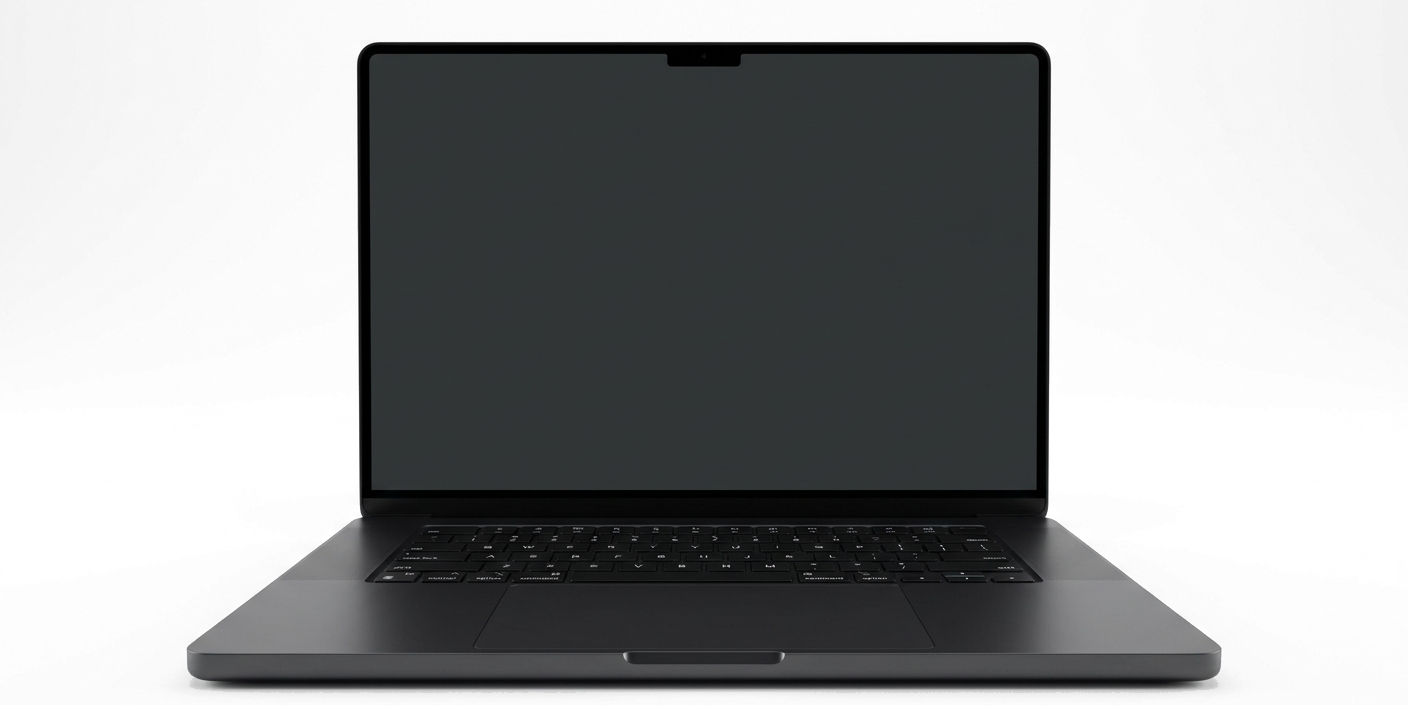
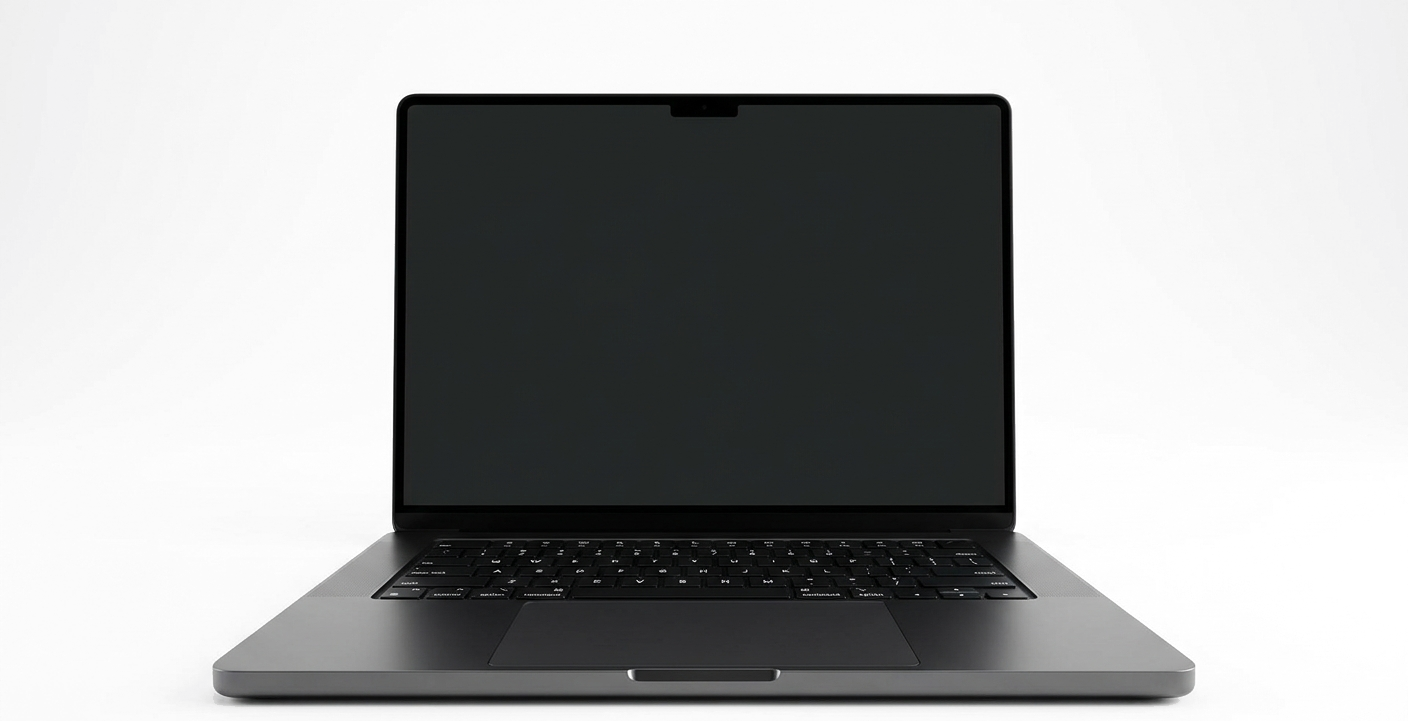
feat(work): flat re-rendered devices + every load starts at page top
- MacBook and iPhone re-rendered at higher fidelity (cleaner
  silhouettes, sharper lighting) and presented FLAT: perspective
  wrappers, tilt poses, hover transforms and extruded bodies all
  removed; sims remapped to the new screen rects
- SmoothScroll forces history.scrollRestoration = manual and scrolls
  to (0,0) on mount, so every site load starts at the first frame of
  the hero choreography instead of a restored mid-pin position

Changed region(s): [[0.125, 0.0624, 0.875, 0.9986], [0.3438, 0.7489, 0.4688, 0.7801], [0.5625, 0.8113, 0.625, 0.8426]]

diff --git a/src/components/marketing/work-section.tsx b/src/components/marketing/work-section.tsx
@@ -99,49 +99,27 @@ export function WorkSection() {
                 <figure className="group">
                   {/* Perspective stage: the laptop rests at a slight 3D tilt and
                       straightens + lifts on hover (motion-safe only). */}
-                  <div className="[perspective:1100px]">
-                    <div className="relative will-change-transform transition-transform duration-500 ease-out [transform-style:preserve-3d] [transform:rotateY(-4deg)_rotateX(2deg)] motion-safe:group-hover:[transform:rotateY(-16deg)_rotateX(6deg)_translateY(-0.4rem)_scale(1.04)] motion-reduce:transition-none">
-                      {/* Extruded lid body (hero-monitor pattern): a thin back
-                          face + right side wall behind the lid region, so the
-                          hover rotation reveals real thickness. */}
-                      <div
-                        aria-hidden
-                        className="pointer-events-none absolute rounded-md bg-[#0b0b0c]"
-                        style={{ left: "25.2%", right: "25.3%", top: "3.2%", bottom: "34.5%", transform: "translateZ(-14px)" }}
-                      />
-                      <div
-                        aria-hidden
-                        className="pointer-events-none absolute w-[14px]"
-                        style={{
-                          right: "25.3%",
-                          top: "3.2%",
-                          bottom: "34.5%",
-                          transform: "rotateY(-90deg)",
-                          transformOrigin: "right center",
-                          background: "linear-gradient(to left, #2e2e31, #101012)",
-                        }}
-                      />
-                      {/* MacBook Pro style render (alpha-keyed); the live sim is
-                          mapped onto its measured screen rectangle. */}
-                      {/* eslint-disable-next-line @next/next/no-img-element */}
-                      <img
-                        src="/macbook.png"
-                        alt=""
-                        aria-hidden
-                        draggable={false}
-                        className="block w-full select-none drop-shadow-[0_36px_70px_rgba(0,0,0,0.6)]"
-                      />
-                      {/* Gold LIVE tag over the screen's top-left corner. */}
-                      <span className="chrome-meta absolute left-[28.5%] top-[9%] z-10 rounded-chrome bg-gold px-2 py-1 text-[0.625rem] text-gold-ink">
-                        LIVE
-                      </span>
-                      <div
-                        className="absolute overflow-hidden bg-obsidian"
-                        style={{ left: "26.4%", top: "6.2%", right: "26.5%", bottom: "33%", containerType: "inline-size" }}
-                      >
-                        <DashboardSim start={2} />
-                        <div aria-hidden className="pointer-events-none absolute inset-0" style={{ background: "linear-gradient(115deg, rgba(255,255,255,0.06) 0%, transparent 30%)" }} />
-                      </div>
+                  <div className="relative">
+                    {/* MacBook Pro style render (alpha-keyed, flat); the live
+                        sim is mapped onto its measured screen rectangle. */}
+                    {/* eslint-disable-next-line @next/next/no-img-element */}
+                    <img
+                      src="/macbook.png"
+                      alt=""
+                      aria-hidden
+                      draggable={false}
+                      className="block w-full select-none drop-shadow-[0_36px_70px_rgba(0,0,0,0.6)]"
+                    />
+                    {/* Gold LIVE tag over the screen's top-left corner. */}
+                    <span className="chrome-meta absolute left-[32%] top-[16%] z-10 rounded-chrome bg-gold px-2 py-1 text-[0.625rem] text-gold-ink">
+                      LIVE
+                    </span>
+                    <div
+                      className="absolute overflow-hidden bg-obsidian"
+                      style={{ left: "29.9%", top: "13.2%", right: "29.2%", bottom: "30.5%", containerType: "inline-size" }}
+                    >
+                      <DashboardSim start={2} />
+                      <div aria-hidden className="pointer-events-none absolute inset-0" style={{ background: "linear-gradient(115deg, rgba(255,255,255,0.06) 0%, transparent 30%)" }} />
                     </div>
                   </div>
                   <LabelChips name="DASHBOARD" tags={["DESKTOP"]} className="mt-4 justify-start" />
@@ -156,59 +134,37 @@ export function WorkSection() {
                 <figure className="group mx-auto w-[min(72vw,260px)]">
                   {/* Perspective stage: the phone rests at a slight 3D tilt and
                       straightens + lifts on hover (motion-safe only). */}
-                  <div className="[perspective:1000px]">
-                    <div className="relative will-change-transform transition-transform duration-500 ease-out [transform-style:preserve-3d] [transform:rotateY(5deg)_rotateX(1deg)] motion-safe:group-hover:[transform:rotateY(18deg)_rotateX(4deg)_translateY(-0.4rem)_scale(1.05)] motion-reduce:transition-none">
-                      {/* Extruded slab body (hero-monitor pattern): back face +
-                          left side wall, so the hover rotation shows the
-                          titanium slab's thickness. */}
-                      <div
-                        aria-hidden
-                        className="pointer-events-none absolute bg-[#0c0c0d]"
-                        style={{ inset: "1.2%", borderRadius: "12% / 5.8%", transform: "translateZ(-18px)" }}
-                      />
-                      <div
-                        aria-hidden
-                        className="pointer-events-none absolute w-[18px]"
-                        style={{
-                          left: "1.2%",
-                          top: "6%",
-                          bottom: "6%",
-                          transform: "rotateY(90deg)",
-                          transformOrigin: "left center",
-                          background: "linear-gradient(to right, #3a3a3e, #131315)",
-                        }}
-                      />
-                      {/* iPhone 17 Pro Max style render (alpha-keyed); the live
-                          sim is mapped onto its rounded screen. */}
-                      {/* eslint-disable-next-line @next/next/no-img-element */}
-                      <img
-                        src="/iphone.png"
-                        alt=""
-                        aria-hidden
-                        draggable={false}
-                        className="block w-full select-none drop-shadow-[0_30px_60px_rgba(0,0,0,0.6)]"
-                      />
-                      <div
-                        className="absolute overflow-hidden bg-obsidian"
-                        style={{
-                          left: "4.2%",
-                          top: "2.0%",
-                          right: "4.4%",
-                          bottom: "3.6%",
-                          borderRadius: "10% / 4.8%",
-                          containerType: "inline-size",
-                        }}
-                      >
-                        <MobileSim />
-                        <div aria-hidden className="pointer-events-none absolute inset-0" style={{ background: "linear-gradient(160deg, rgba(255,255,255,0.06) 0%, transparent 26%)" }} />
-                      </div>
-                      {/* Dynamic island over the sim. */}
-                      <div
-                        aria-hidden
-                        className="absolute left-1/2 z-10 -translate-x-1/2 rounded-full bg-[#080808]"
-                        style={{ top: "3.6%", width: "22%", height: "2.3%" }}
-                      />
+                  <div className="relative">
+                    {/* iPhone 17 Pro Max style render (alpha-keyed, flat); the
+                        live sim is mapped onto its rounded screen. */}
+                    {/* eslint-disable-next-line @next/next/no-img-element */}
+                    <img
+                      src="/iphone.png"
+                      alt=""
+                      aria-hidden
+                      draggable={false}
+                      className="block w-full select-none drop-shadow-[0_30px_60px_rgba(0,0,0,0.6)]"
+                    />
+                    <div
+                      className="absolute overflow-hidden bg-obsidian"
+                      style={{
+                        left: "6.8%",
+                        top: "2.2%",
+                        right: "7.0%",
+                        bottom: "2.6%",
+                        borderRadius: "12% / 5.5%",
+                        containerType: "inline-size",
+                      }}
+                    >
+                      <MobileSim />
+                      <div aria-hidden className="pointer-events-none absolute inset-0" style={{ background: "linear-gradient(160deg, rgba(255,255,255,0.06) 0%, transparent 26%)" }} />
                     </div>
+                    {/* Dynamic island over the sim. */}
+                    <div
+                      aria-hidden
+                      className="absolute left-1/2 z-10 -translate-x-1/2 rounded-full bg-[#080808]"
+                      style={{ top: "3.8%", width: "20%", height: "2.2%" }}
+                    />
                   </div>
                   <LabelChips name="MOBILE" tags={["WEBAPP"]} className="mt-4 justify-center" />
                   <figcaption className="chrome-meta mt-3 text-center text-steel/80">On the move · the booking just landed</figcaption>

diff --git a/src/components/marketing/smooth-scroll.tsx b/src/components/marketing/smooth-scroll.tsx
@@ -16,6 +16,13 @@ import { ScrollTrigger } from "gsap/ScrollTrigger";
 export function SmoothScroll() {
   React.useEffect(() => {
     if (typeof window === "undefined") return;
+
+    // Every load starts at the absolute top: the hero's scroll choreography
+    // must always begin from its first frame, never a restored mid-pin
+    // position.
+    window.history.scrollRestoration = "manual";
+    window.scrollTo(0, 0);
+
     const reduced = window.matchMedia("(prefers-reduced-motion: reduce)");
     if (reduced.matches) return;
 
